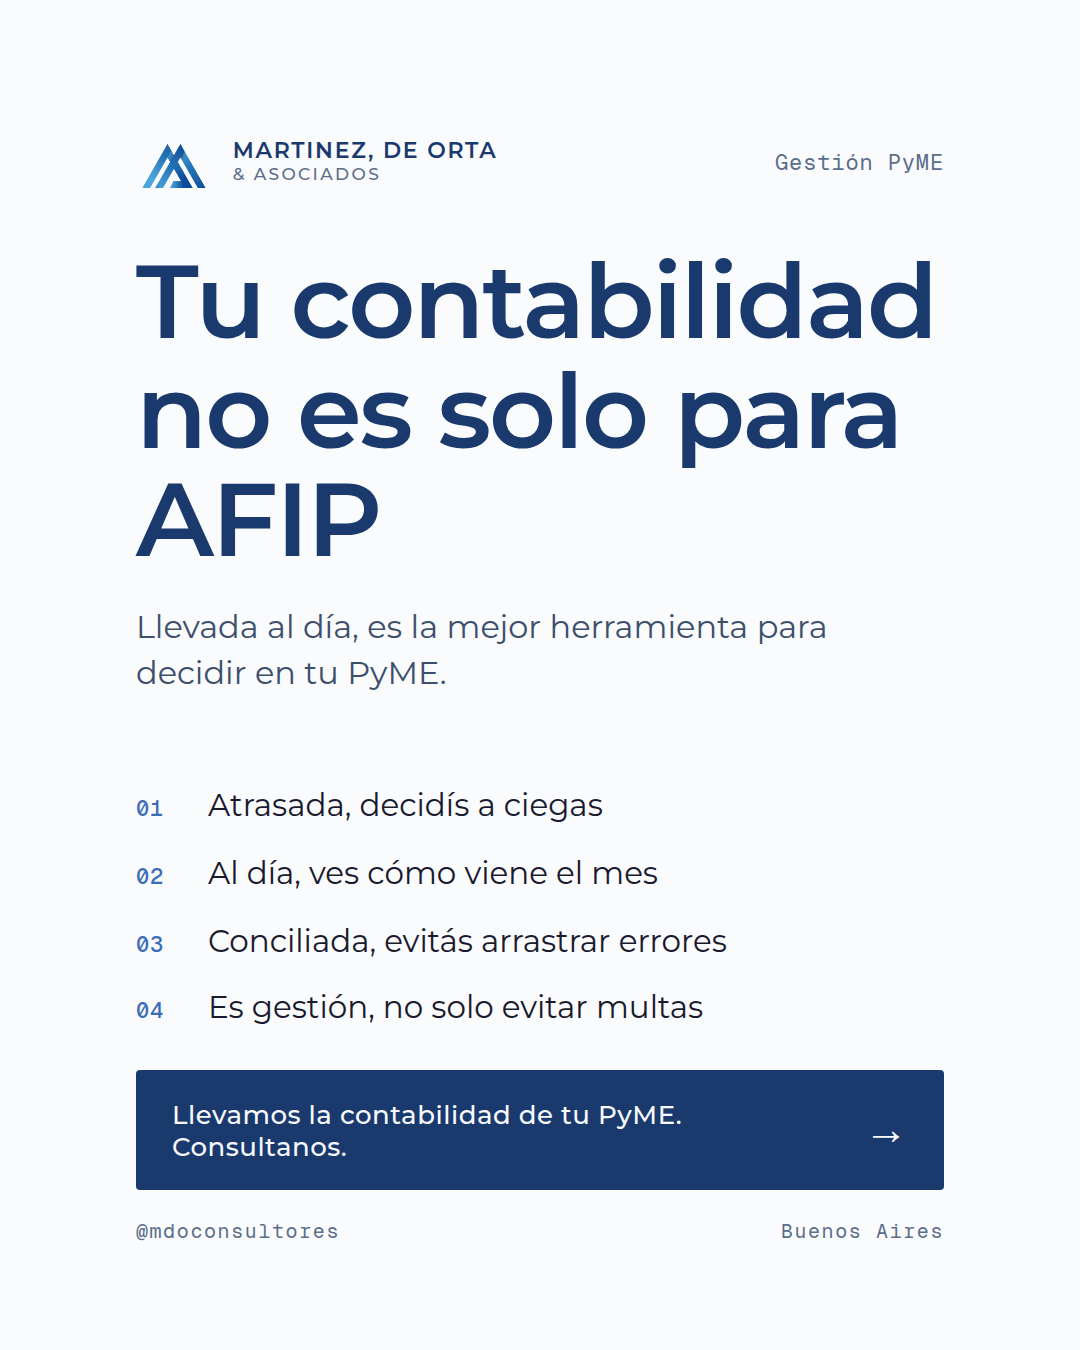
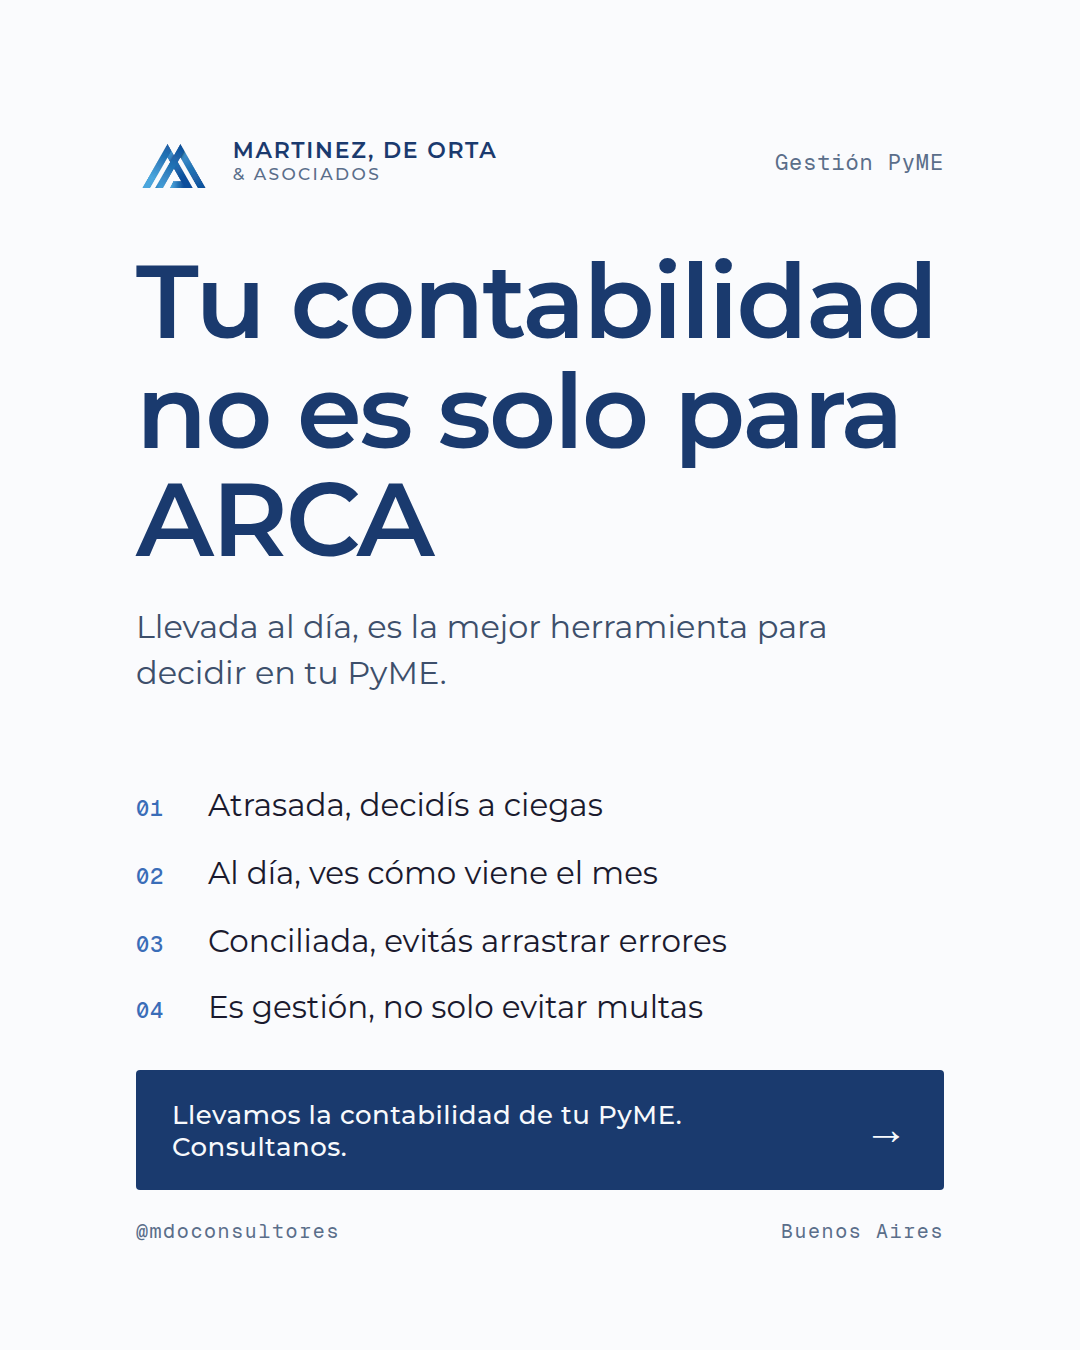
regla: ARCA nunca AFIP (CLAUDE+skill) y corrige viernes AFIP->ARCA

Changed region(s): [[0.2139, 0.3422, 0.3972, 0.4356]]

diff --git a/mdo-templates/templates-friday.jsx b/mdo-templates/templates-friday.jsx
@@ -175,7 +175,7 @@ const EXAMPLES_FRIDAY = {
   PoAntesDespues: {
     copete: 'Contabilidad',
     sin_label: 'Sin orden contable',
-    sin_texto: 'Números a fin de año, decisiones a las apuradas y sorpresas con AFIP.',
+    sin_texto: 'Números a fin de año, decisiones a las apuradas y sorpresas con ARCA.',
     con_label: 'Con MDO',
     con_texto: 'Información al día para decidir tranquilo, todo el año.',
     cta: 'Ordenamos tu contabilidad', handle: '@mdoconsultores',

diff --git a/.claude/skills/mdo-rutina-semanal/SKILL.md b/.claude/skills/mdo-rutina-semanal/SKILL.md
@@ -15,6 +15,8 @@ Ejecutar **todos los lunes 9hs Argentina (UTC-3)** para armar los 4 posteos de l
 - **Tono**: profesional pero accesible, español rioplatense, NO jerga contable cerrada
 - **Cuenta IG**: `@mdoconsultores` · mdo-consultores.com.ar
 
+⚠ **REGLA DURA — ARCA, nunca AFIP**: el organismo recaudador hoy se llama **ARCA** (Agencia de Recaudación y Control Aduanero). Usar SIEMPRE "ARCA" en títulos, copys, imágenes y hashtags. ❌ Nunca escribir "AFIP", aunque la fuente lo diga — traducirlo a "ARCA".
+
 ## Output esperado
 
 4 drafts en Metricool por semana (5 en semanas pares — ver el sábado), todos para la cuenta IG+LinkedIn "Martinez, De Orta & Asociados" (`blogId: 6267636`, networks `instagram` + `linkedin`, timezone `America/Argentina/Buenos_Aires`):

diff --git a/CLAUDE.md b/CLAUDE.md
@@ -78,6 +78,10 @@ El tip lo genera la IA. Para evitar imprecisiones técnicas:
 
 Si el draft generado contiene cualquier dato específico, descartarlo y regenerar.
 
+## Regla dura: ARCA, nunca AFIP
+
+El organismo recaudador **ya no se llama AFIP**: es **ARCA** (Agencia de Recaudación y Control Aduanero). En TODO el contenido (títulos, copys, imágenes, hashtags) usar siempre **ARCA**. ❌ Nunca escribir "AFIP". Si una fuente/newsletter dice "AFIP", traducirlo a "ARCA" al redactar.
+
 ## Branch de trabajo
 
 La rama activa para este proyecto: ver `git branch --show-current`. Las imágenes commiteadas a esa rama son accesibles vía:
